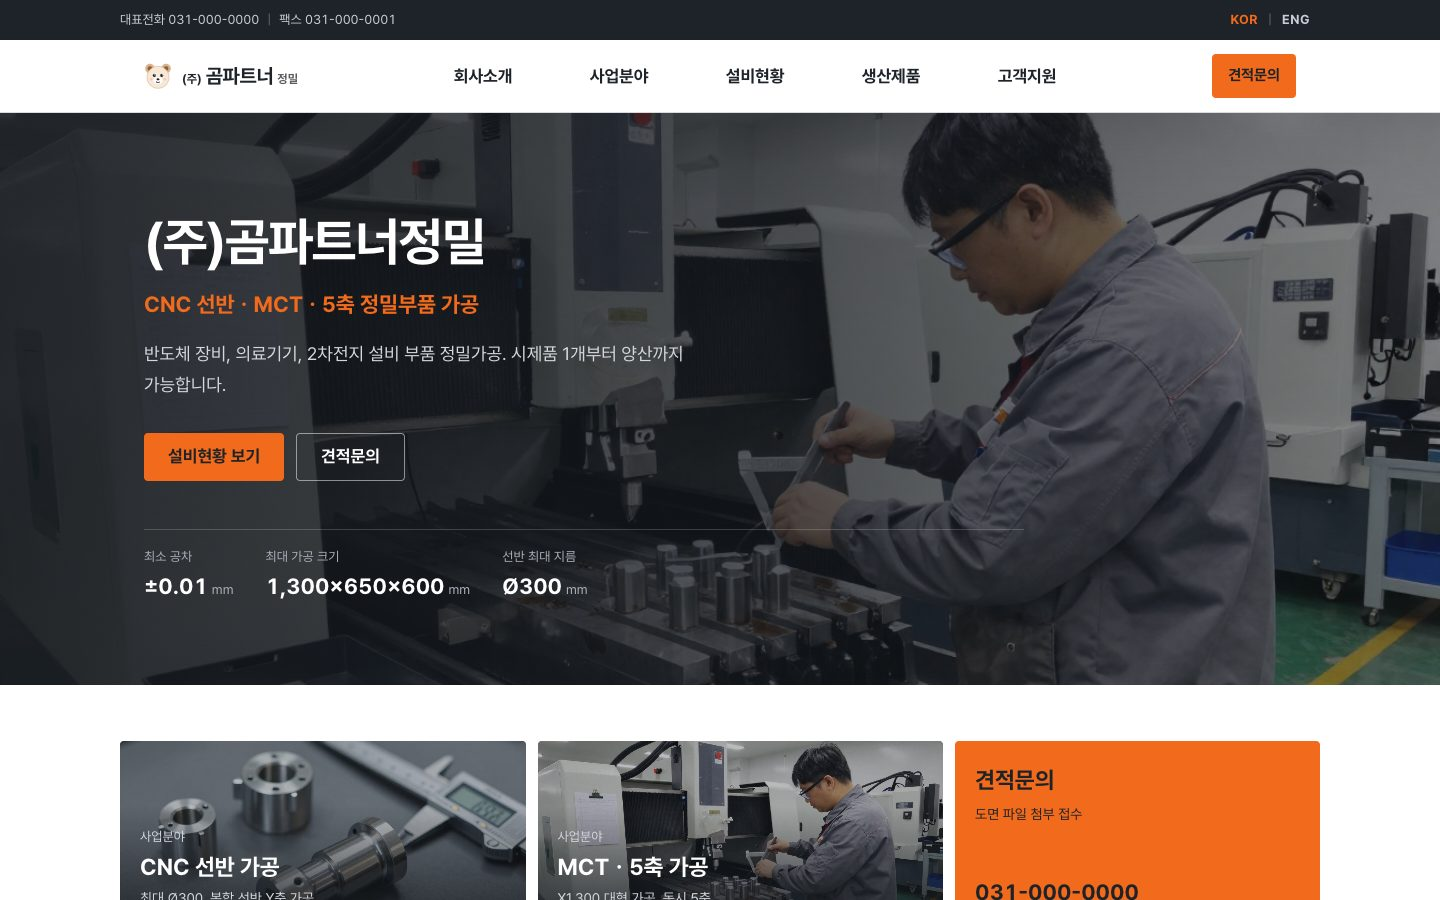
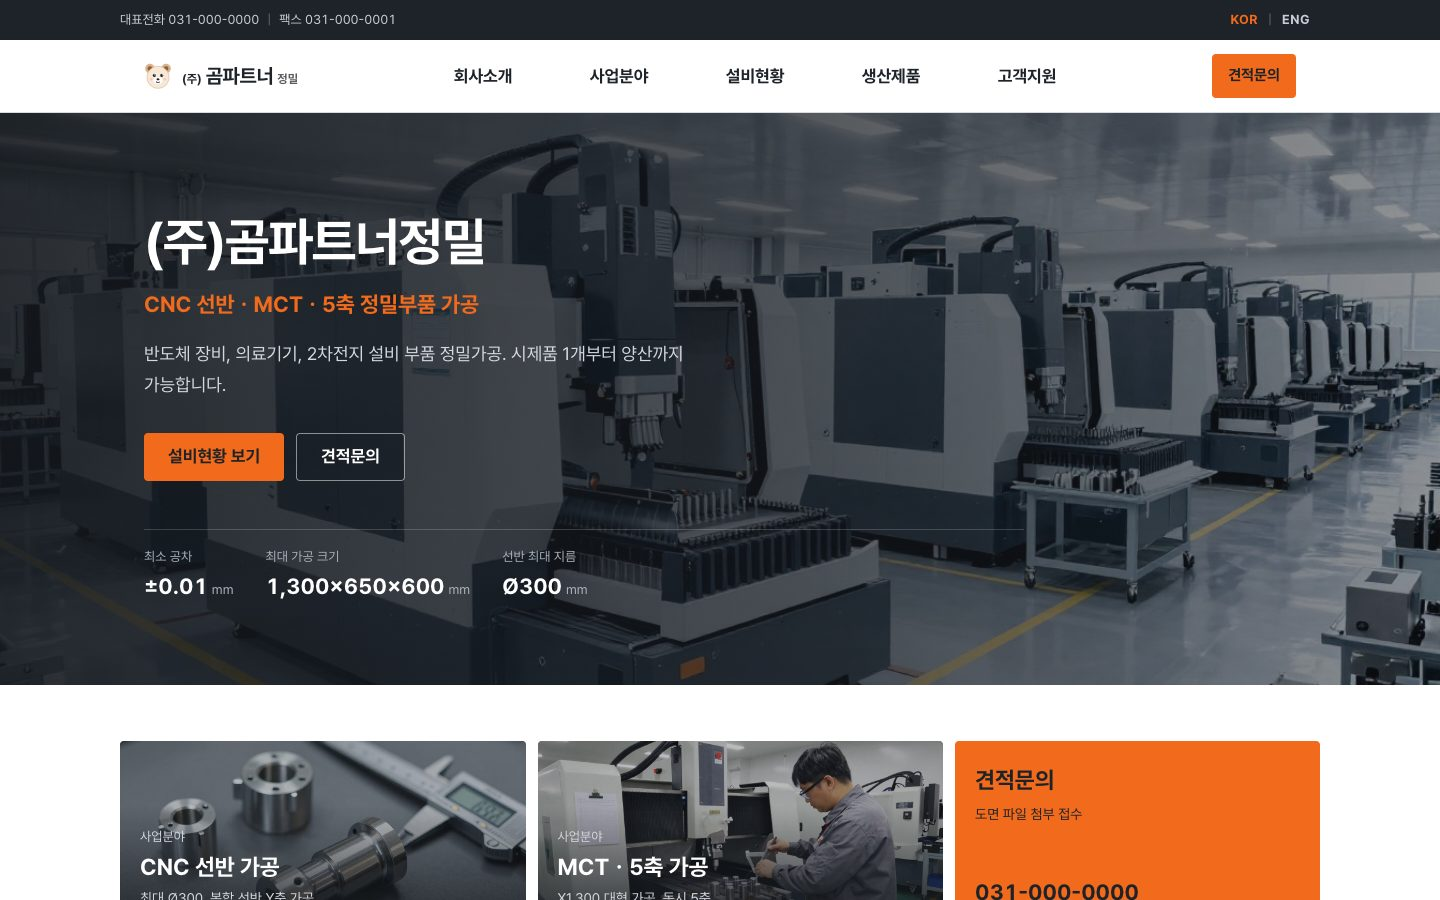
정밀가공 데모 배너만 이전 사진으로, 새 사진은 사업분야·하위 화면에

diff --git a/components/demos/CompanyDemo.tsx b/components/demos/CompanyDemo.tsx
@@ -677,7 +677,7 @@ function Home() {
               </span>
             </button>
             <button type="button" onClick={() => go("business", "fiveAx")} className="group relative block h-[150px] overflow-hidden rounded-[4px] text-left md:h-[190px]" style={{ background: C.steel }}>
-              <Image src={`${IMG}/hero.jpg`} alt="" fill sizes="(min-width: 768px) 36vw, 100vw" className="object-cover object-[70%_50%] opacity-70 transition-opacity group-hover:opacity-55" />
+              <Image src={`${IMG}/worker.jpg`} alt="" fill sizes="(min-width: 768px) 36vw, 100vw" className="object-cover object-[70%_50%] opacity-70 transition-opacity group-hover:opacity-55" />
               <span className="absolute inset-x-0 bottom-0 p-4 md:p-5" style={{ color: C.white, background: "linear-gradient(0deg, rgba(20,24,29,0.85), rgba(20,24,29,0))" }}>
                 <span className="block text-[13px]" style={{ color: "#d4d8de" }}>{x("사업분야", "Business")}</span>
                 <span className="block text-[20px] font-bold md:text-[23px]">{x("MCTㆍ5축 가공", "MCT and 5-Axis")}</span>
@@ -878,7 +878,7 @@ function SubPage({ m, s: subId }: { m: MenuId; s: string }) {
   return (
     <>
       <section className="relative overflow-hidden px-4 md:px-6" style={{ background: C.steel, color: C.white }}>
-        <Image src={`${IMG}/hero.jpg`} alt="" fill sizes="100vw" className="object-cover object-[50%_40%]" />
+        <Image src={`${IMG}/worker.jpg`} alt="" fill sizes="100vw" className="object-cover object-[50%_40%]" />
         <div className="absolute inset-0" style={{ background: "rgba(20,24,29,0.78)" }} aria-hidden />
         <div className="relative mx-auto max-w-[1200px] py-9 md:py-14">
           <h1 className="text-[28px] font-bold tracking-[-0.03em] md:text-[38px]">{s(menu.label)}</h1>
